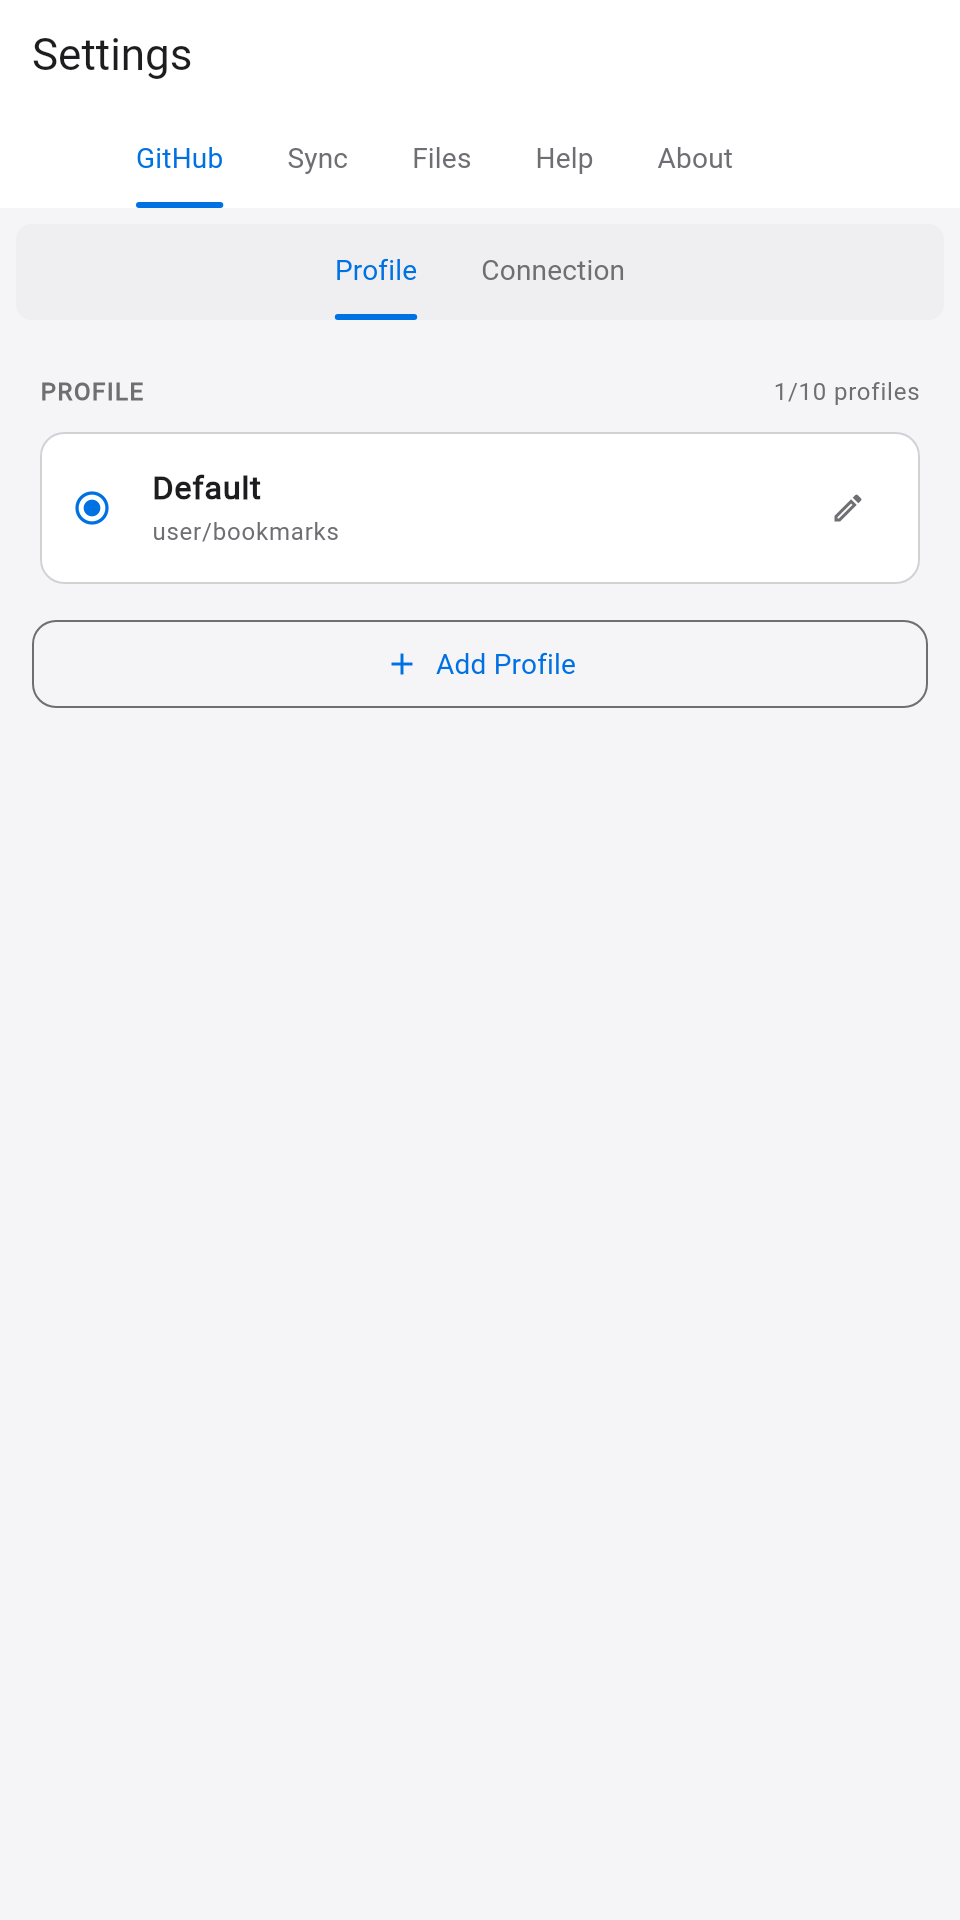
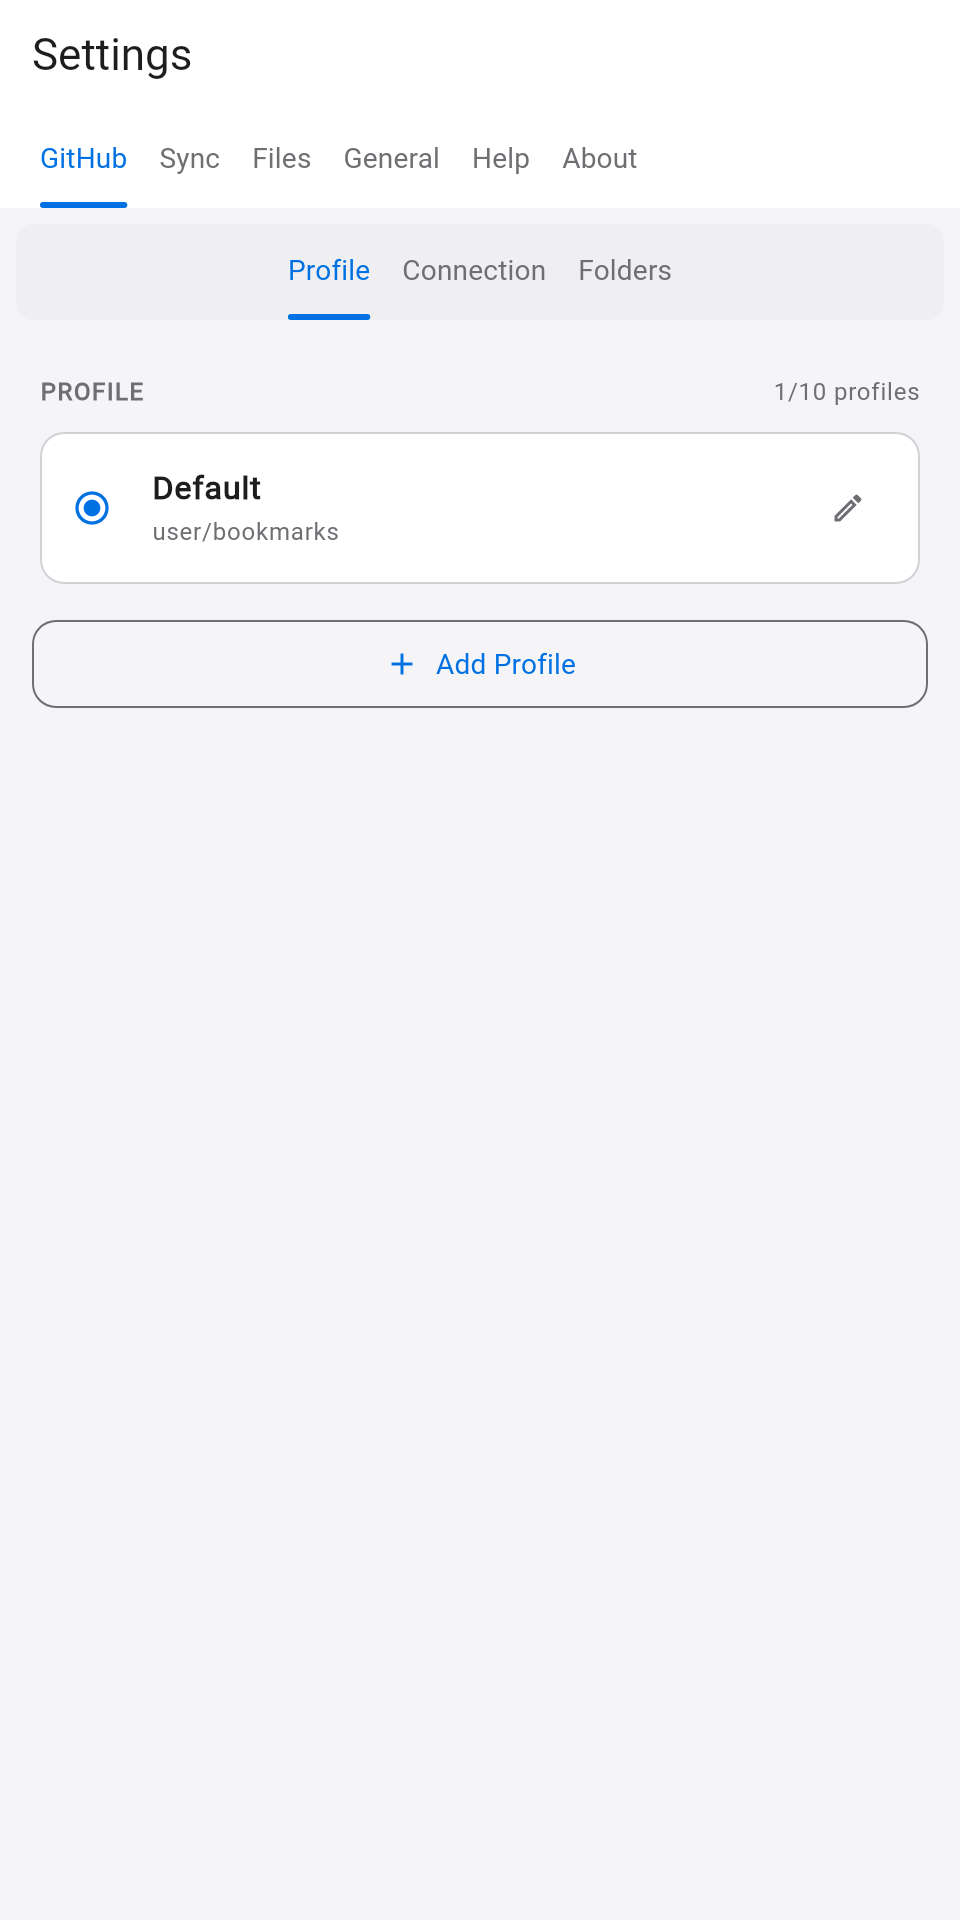
Finalize v0.3.3 roadmap status and refresh settings screenshot.
Mark v0.3.3 as completed in roadmap/current sections and update the settings screenshot asset for release readiness outside F-Droid flow.

Made-with: Cursor

diff --git a/ROADMAP.md b/ROADMAP.md
@@ -45,24 +45,26 @@ import on empty state, golden_toolkit for screenshots, F-Droid screenshots/icon
 
 - Beta testing signup for Play Store; repository rename (GitSyncMarks-Mobile → GitSyncMarks-App); F-Droid metadata fixes (commit hashes, rewritemeta, pre-release filter)
 
-### v0.3.3 (in progress)
+### v0.3.3
 
 - Settings sync alignment with extension profiles path: `profiles/<alias>/settings.enc`
 - Client name flow for individual settings sync mode
 - Folder browser for selecting repo base path in GitHub settings
 - `_index.json` compatibility (`version: 2`) during bookmark write operations
+- General settings tab with app language and theme selection
+- Full localization across all supported app locales
 
 ---
 
-## Current (v0.3.3)
+## Current (post-v0.3.3)
 
-- **Features:** Bookmark sync, move, reorder, delete, add via share; Settings Sync to Git with client profile paths; encrypted export/import; configurable root folder; auto-lock edit mode; reset all data; import on empty state
+- **Features:** Stable v0.3.3 feature set shipped (settings sync profile-path compatibility, client-name flow, folder browser, General language/theme settings, and full localization coverage)
 - **Platforms:** Android (beta), iOS, Windows, macOS, Linux (alpha)
-- **Release:** Tag `v`* → APK, Flatpak + ZIP (Linux), ZIP (Windows, macOS); pre-release tags supported
+- **Release:** Stable tags (`vX.Y.Z`) create latest releases; suffixed tags (`-beta/-rc/-test`) create pre-releases
 
 ---
 
-## Near-term
+## Near-term (next cycle)
 
 - Minor UX improvements
 - Stability fixes for alpha platforms
